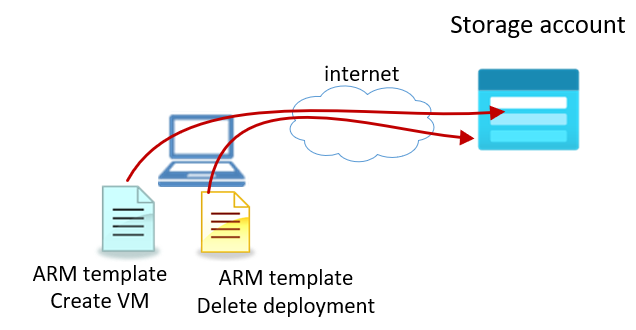
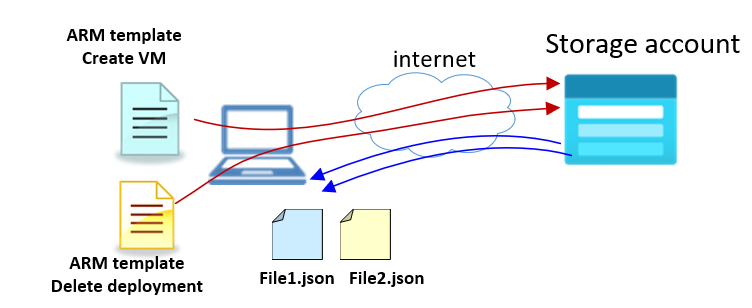
Azure Examples

diff --git a/automation/readme.md b/automation/readme.md
@@ -52,7 +52,7 @@ The powershell **storage-account-sas.ps1** script copies the two ARM templates *
 [![2]][2]
 
 <h3>
-NOTE: At the end of run two the ARM templates <bold>ubuntuVM.json</bold> and <bold>delete.json<bold> are downloaded in the local script folder, renamed file1.json and file2.json 
+NOTE: At the end of run two the ARM templates <bold>ubuntuVM.json</bold> and <bold>delete.json<bold> are downloaded in the local script folder, renamed File1.json and File2.json 
 </h3>
 
 ## Step2: Create an Azure Automation account by Azure Management portal
